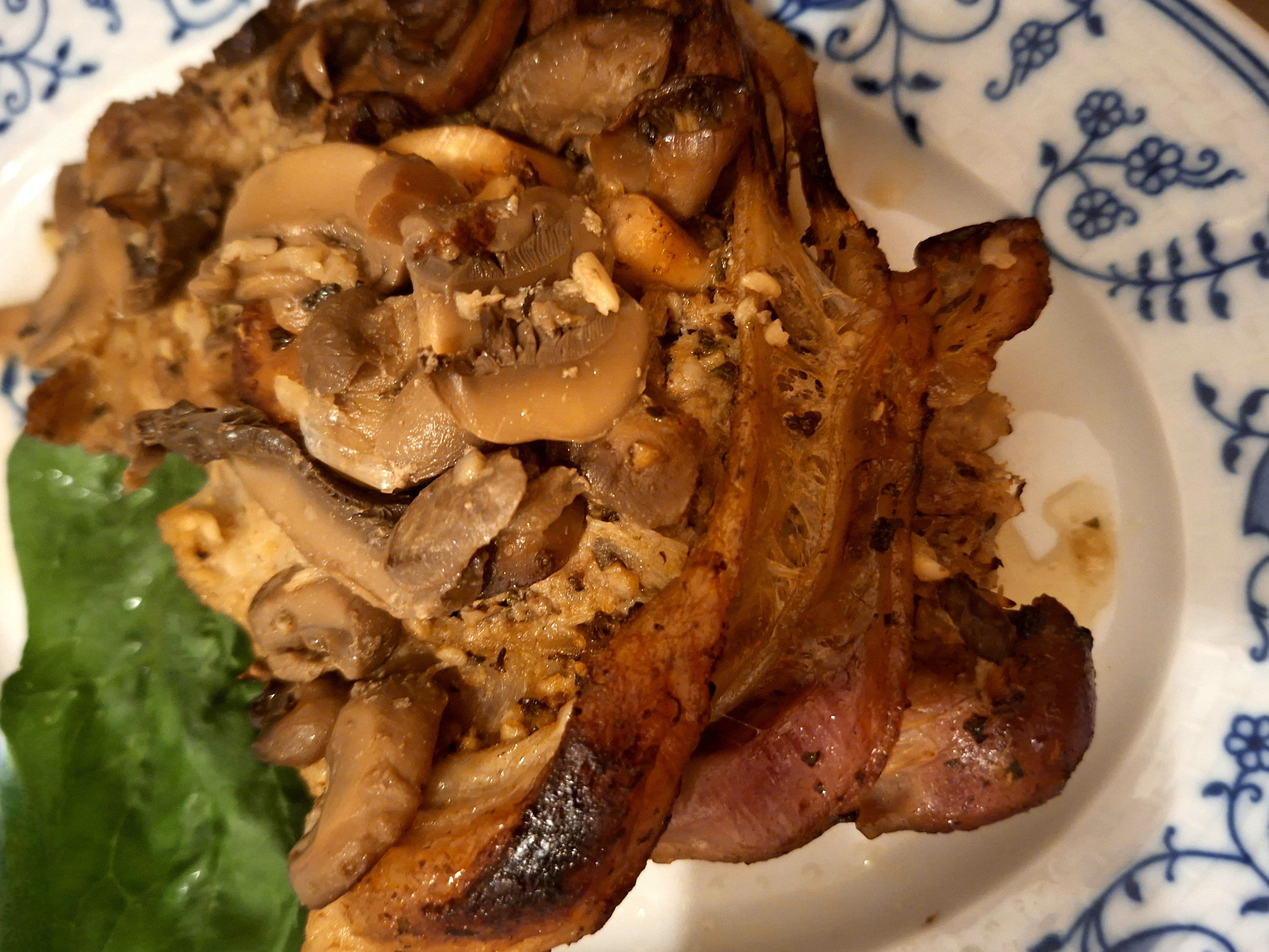
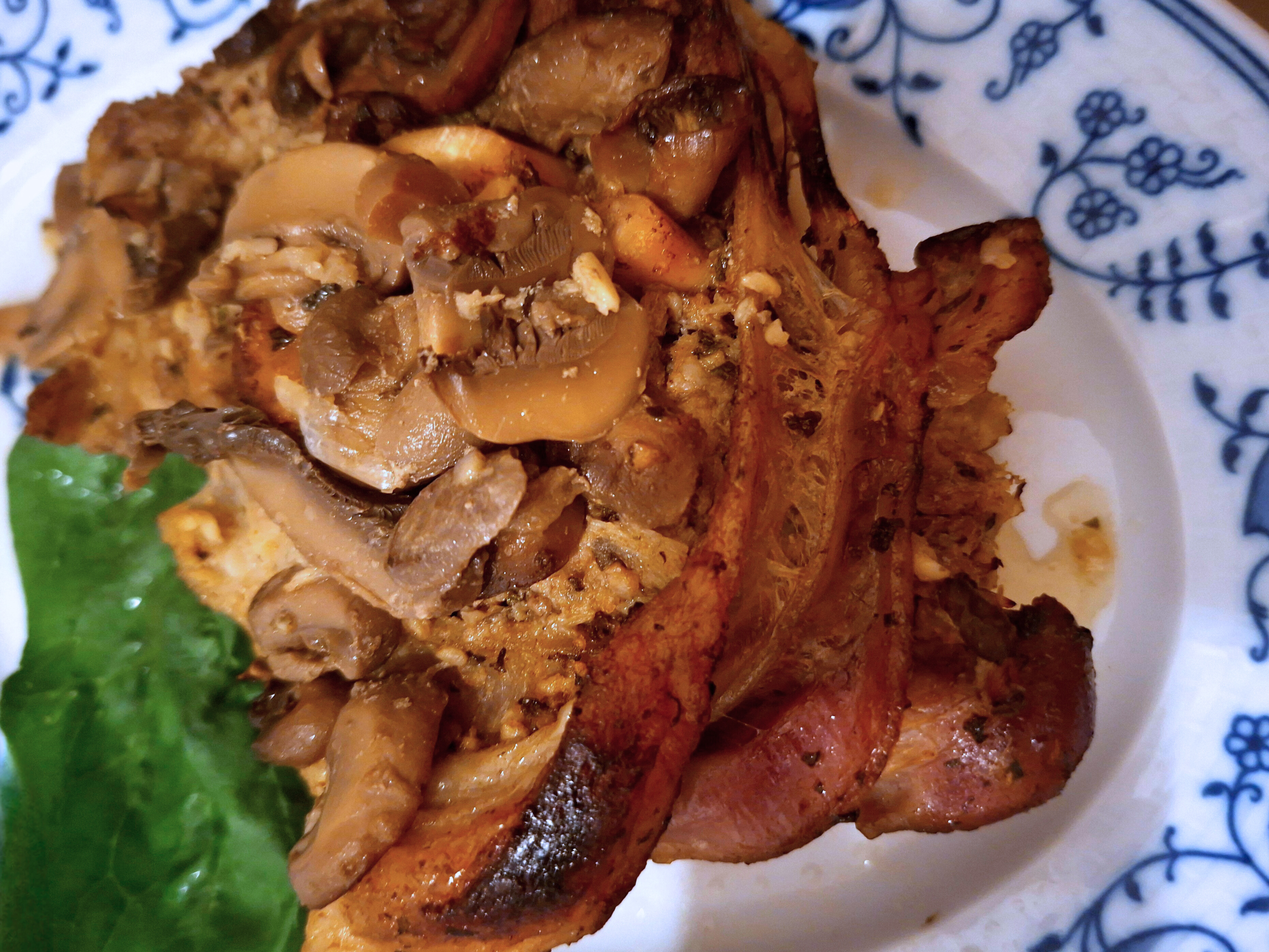
Letzte Updates, neue Bilder

diff --git a/src/index.md b/src/index.md
@@ -182,7 +182,7 @@ title: 24ja.at | Kinderbetreuung, Personenbetreuung & Begleitung in Wien
                     </div>
                     <!-- Image 3 -->
                     <div class="slide">
-                        {% picture site.imagePrefix + '/assets/images/original/erwachsenenbetreuung/Käsecrecker Demeter.jpg', "Hausgemachte Käsecracker aus Demeter-Zutaten", "100vw", "w-full h-full object-contain" %}
+                        {% picture site.imagePrefix + '/assets/images/original/erwachsenenbetreuung/Käsecrecker Demeter.jpg', "Hausgemachte Käsecracker aus Demeterkäse", "100vw", "w-full h-full object-contain" %}
                         <div class="slide-caption">Hausgemachte Käsecracker aus Demeter-Zutaten</div>
                     </div>
                     <!-- Image 4 -->
